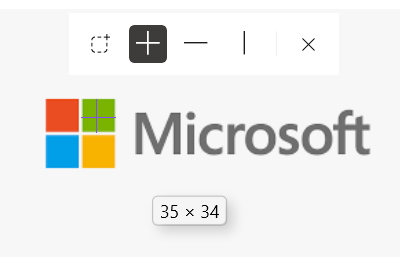
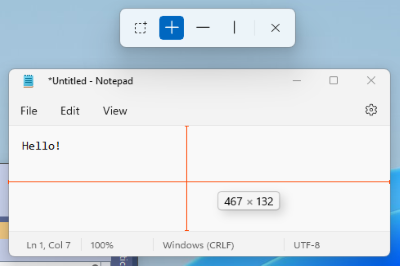
Adjusting image and wording in settings (#20151)
* adding in warning for measuring

* Adjust verbiage

* adjusting base image for screen ruler

* tweak image

* Update src/settings-ui/Settings.UI/Strings/en-us/Resources.resw

* Update src/settings-ui/Settings.UI/Strings/en-us/Resources.resw

* This mode -> The continuous capture mode

diff --git a/src/settings-ui/Settings.UI/Views/MeasureToolPage.xaml b/src/settings-ui/Settings.UI/Views/MeasureToolPage.xaml
@@ -7,7 +7,12 @@
     mc:Ignorable="d"
     xmlns:muxc="using:Microsoft.UI.Xaml.Controls"
     xmlns:controls="using:Microsoft.PowerToys.Settings.UI.Controls"
+    xmlns:converters="using:CommunityToolkit.WinUI.UI.Converters" 
     AutomationProperties.LandmarkType="Main">
+    <Page.Resources>
+        <converters:BoolToObjectConverter x:Key="BoolToVisibilityConverter" TrueValue="Visible" FalseValue="Collapsed"/>
+    </Page.Resources>
+    
     <controls:SettingsPageControl x:Uid="MeasureTool"
                                   ModuleImageSource="ms-appx:///Assets/Modules/ScreenRuler.png">
         <controls:SettingsPageControl.ModuleContent>
@@ -30,14 +35,21 @@
                         </controls:Setting.ActionContent>
                     </controls:Setting>
                 </controls:SettingsGroup>
-                
+
                 <controls:SettingsGroup x:Uid="MeasureTool_Settings" IsEnabled="{x:Bind Mode=OneWay, Path=ViewModel.IsEnabled}">
-                   
+
                     <controls:Setting x:Uid="MeasureTool_ContinuousCapture" Icon="&#xE7FB;">
                         <controls:Setting.ActionContent>
                             <ToggleSwitch IsOn="{x:Bind ViewModel.ContinuousCapture, Mode=TwoWay}" x:Uid="MeasureTool_ContinuousCapture_ToggleSwitch" />
                         </controls:Setting.ActionContent>
                     </controls:Setting>
+                    <muxc:InfoBar
+                        Severity="Warning"
+                        x:Uid="MeasureTool_ContinuousCapture_Information"
+                        IsOpen="True"
+                        IsTabStop="True"
+                        IsClosable="False"
+                        Visibility="{Binding Mode=OneWay, Path=ContinuousCapture, Converter={StaticResource BoolToVisibilityConverter}}" />
                     <controls:Setting x:Uid="MeasureTool_PerColorChannelEdgeDetection" Icon="&#xE7FB;">
                         <controls:Setting.ActionContent>
                             <ToggleSwitch
@@ -45,7 +57,6 @@
                                     x:Uid="MeasureTool_PerColorChannelEdgeDetection_ToggleSwitch" />
                         </controls:Setting.ActionContent>
                     </controls:Setting>
-
                     <controls:Setting x:Uid="MeasureTool_PixelTolerance">
                         <controls:Setting.ActionContent>
                             <Slider Minimum="0"
@@ -54,7 +65,7 @@
                                     Value="{x:Bind Mode=TwoWay, Path=ViewModel.PixelTolerance}"/>
                         </controls:Setting.ActionContent>
                     </controls:Setting>
-                    
+
                     <controls:Setting x:Uid="MeasureTool_DrawFeetOnCross">
                         <controls:Setting.ActionContent>
                             <ToggleSwitch IsOn="{x:Bind ViewModel.DrawFeetOnCross, Mode=TwoWay}" x:Uid="MeasureTool_DrawFeetOnCross_ToggleSwitch" />
@@ -66,8 +77,8 @@
                             <controls:ColorPickerButton SelectedColor="{x:Bind Path=ViewModel.CrossColor, Mode=TwoWay}" />
                         </controls:Setting.ActionContent>
                     </controls:Setting>
-
                 </controls:SettingsGroup>
+
             </StackPanel>
         </controls:SettingsPageControl.ModuleContent>
         <controls:SettingsPageControl.PrimaryLinks>
